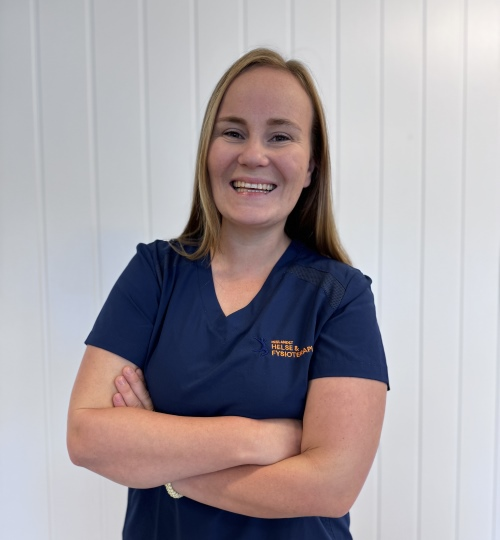
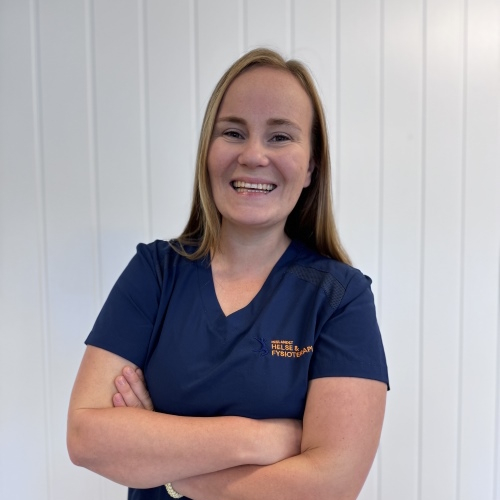
Ny ansatt

Changed region(s): [[0.12, 0.09, 0.78, 1.0]]

diff --git a/src/views/About.vue b/src/views/About.vue
@@ -406,7 +406,7 @@ export default {
         {
           key: 'lene',
           name: 'Lene Moe Sognar',
-          title: 'Fysioterapeut',
+          title: 'Fysioterapeut og Aut. fotterapeut',
           desc: `
             <p class="mt-4 line-height-18">
               Lene har jobbet som fysioterapeut siden 2014. Hun har vært privatpraktiserende ved
@@ -518,18 +518,21 @@ export default {
           `
         },
         {
-          key: 'henrik',
-          name: 'Henrik',
+          key: 'eline',
+          name: 'Eline Kleiven Brun',
           title: 'Fysioterapeut',
           desc: `
             <p class="mt-4 line-height-18">
-              Henrik er utdannet fysioterapeut ved Oslomet, og har fullført sin turnus ved Sykehuset Innlandet HF og Elverum Helsehus. Han har god erfaring med klinikkarbeid og har jobbet hos oss siden 2023. I sin turnus fikk han erfaring med fysioterapi for eldre, slagpasienter, lungefysioterapi, hofte- og kneproteser samt rehabilitering etter funksjonsfall.
+              Eline ble ferdig med fysioterapiutdanningen ved OsloMet i 2019. Hun har siden jobbet som fysioterapeut. Vært innom sykehus og kommune, og de siste 5.5 årene jobbet innen spesialisert rehabilitering.
             </p>
             <p class="mt-4 line-height-18">
-              Henrik intresserer seg for idrett og spiller selv håndball for Storhamar herrelag. Han baserer behandlingen på en grundig undersøkelse og er opptatt av at pasientene skal føle seg ivaretatt.
+              Hun har erfaring med fysikalsk behandling av et bredt spekter av muskel-og skjelettplager og skader samt opptrening etter operasjoner for ulike ortopediske problemstillinger. Nevrologiske lidelser og langvarig smerteproblematikk og kreft har hun også mye erfaring med.
             </p>
             <p class="mt-4 line-height-18">
-              Henrik har kurs i idrettsmassasje, nåler og tilpasser behandlingen individuelt med trening og øvelser.  Han er opptatt av å øke pasientens forståelse for egen helse og bidra til bedring utfra felles forståelse og mål.
+              Eline er opptatt av å se den enkeltes behov og skape en god terapeut-pasient relasjon. Hun har en helhetlig tilnærming der en grundig anamnese og undersøkelse samt pasientens ønsker og behov legger grunnlaget for behandlingen.
+            </p>
+            <p class="mt-4 line-height-18">
+              Hun kombinerer gjerne aktive øvelser med massasje/ bløtvev-og triggerpunktsbehandling og manuelle mobiliseringsteknikker. Hun er opptatt av at pasienten er en aktiv aktør i eget liv, og vil bidra til å gi dem verktøyene de trenger for å fungere best mulig i hverdagen, og ha en helsefremmende livsstil. Hun er selv glad i å vært aktiv. Har tidligere spilt håndball, og har mye erfaring med ulike aktivitets- og treningsformer. Hun driver til vanlig med Crossfit, styrketrening og løping.
             </p>
           `
         },
@@ -552,7 +555,7 @@ export default {
           title: 'Fysioterapeut',
           desc: `
             <p class="mt-4 line-height-18">
-              Mari kommer fra Vågå og bor på Lillehammer. Hun ble ferdig utdannet som fysioterapeut i 2020, og har jobbet som kommunal fysioterapeut siden. Her har hun hatt et bredt spekter av pasienter med muskel- og skjelettplager, kreft, nevrologiske lidelser samt langvarige smertetilstander.  
+              Mari kommer fra Vågå og bor på Lillehammer. Hun ble ferdig utdannet som fysioterapeut i 2020, og har jobbet som kommunal fysioterapeut siden. Her har hun hatt et bredt spekter av pasienter med muskel- og skjelettplager, kreft, nevrologiske lidelser samt langvarige smertetilstander.
             </p>
             <p class="mt-4 line-height-18">
               Mari er opptatt av å finne gode og overkommelige mestringsstrategier for hver enkelt. Gjennom individuell undersøkelse, og basert på kundens mål, finner vi sammen behandlingsmetode. Det kan være avspenning, massasje og bløtvevsbehandling, kombinert med en aktiv tilnærming med øvelser.
@@ -562,7 +565,7 @@ export default {
         {
           key: 'silje',
           name: 'Silje Renate Moen Krosby',
-          title: 'Fotpleier',
+          title: 'Fotpleier og fotterapistudent',
           desc: `
             <p class="mt-4 line-height-18">
               Silje har jobbet i helsevesenet siden 2001 og har lang erfaring med å hjelpe andre til å oppnå bedre helse. Gjennom sitt arbeid som fotpleier har hun som mål at du skal oppnå bedre fothelse. Hun tar hensyn til den enkeltes utfordringer, og ser mennesker godt. Silje har igjennom sitt arbeid igjennom alle år sett behovet og mangelen på tilstrekkelig god veiledning og fothelse, og har derfor bestemt seg for å starte på utdannelsen for å kunne bli autorisert fotterapeut.
